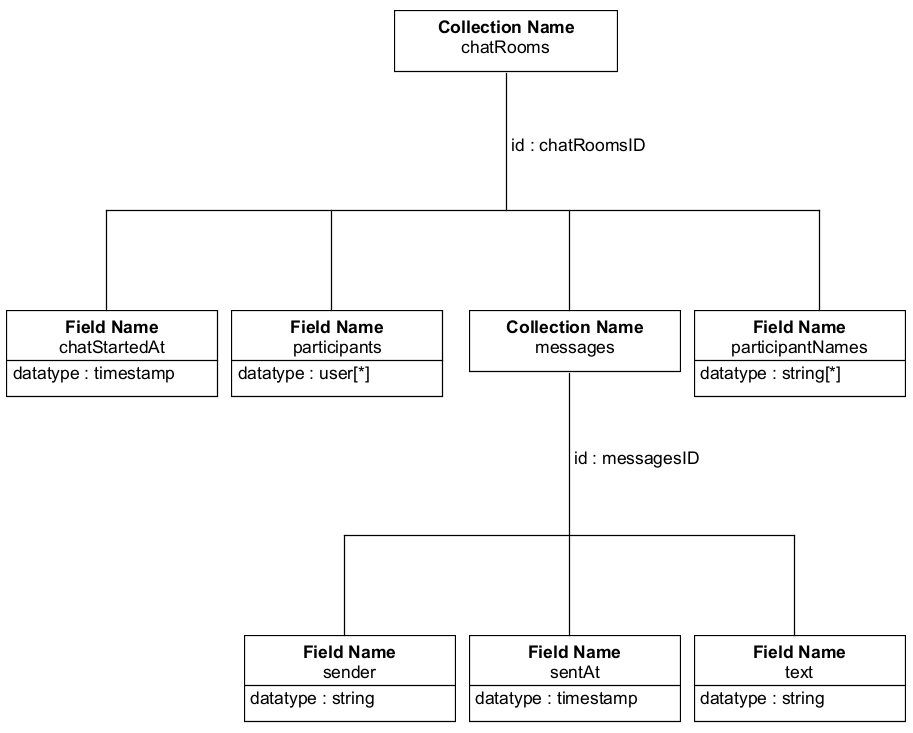
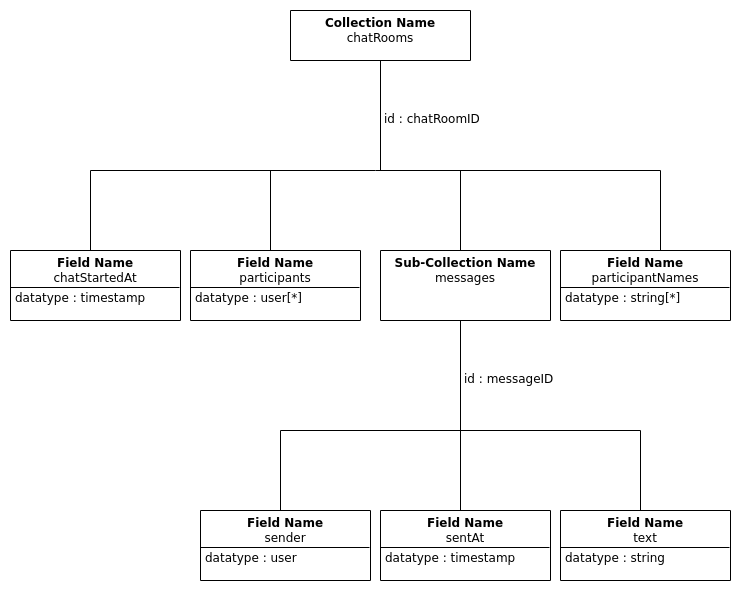
Added Baber's Part - Tree diagrams + more

Changed region(s): [[0.0, 0.2746, 0.9946, 1.0], [0.4041, 0.0, 0.6527, 0.122], [0.4973, 0.1831, 0.7149, 0.2136]]

diff --git a/ApertureStage3Report.md b/ApertureStage3Report.md
@@ -211,7 +211,7 @@ The web application will be hosted using a cloud platform application called Her
   - react-scripts
   - swiper
   - web-vitals
-- Google Firestore 
+- Google Firestore
 - Firebase Authentication
 - Firebase Storage
 - Node Package Manager (NPM)
@@ -260,7 +260,7 @@ Aperture was developed using ReactJS in conjuncture with Google Firestore's fire
 **MVC was chosen due to the following reasons.** (John Prabhu, 2019)
 
 - Since it divides the application into 3 parts, different members would be able to work on code related to different parts simultaneously thus making the overall development process faster.
-- Our application would have many asynchronous calls related to getting, setting and updating collections in the firebase DB. MVC supports asynchronous techniques.
+- Our application would have many asynchronous calls related to getting, setting and updating collections in the Firestore DB. MVC supports asynchronous techniques.
 - It demarcates Model View and Controller parts of the system well such that modifying one part would not necessarily change other parts. This is convenient as our development plan using scrum would mean that systems would frequently be changed and improved in later iterations.
 
 
@@ -313,7 +313,7 @@ Above figure represents the workings of React Redux which is a state management 
     </figcaption>
 </figure>
 
-Above figure shows how Redux interacts with react components and the Firebase database. React redux wraps around the parent and child components of react and allows state changes among child components and send queries and receive responses from firebase through React Redux.
+Above figure shows how Redux interacts with react components and the Firestore database. React redux wraps around the parent and child components of react and allows state changes among child components and send queries and receive responses from firebase through React Redux.
 
 
 
@@ -369,7 +369,13 @@ Overall firebase provides us with great functional tools making the entire backe
 
 ###### 1.6.2. Firebase Authentication System
 
-As explained above firebase is a very feature rich database tool, but it also has its own upsides and downsides to it. Firebase provides an authentication feature making it easier for us to know the identity of a user and allow them to access the app securely with the user data being stored securely over the cloud. The authentication system provides us with a secure system while supporting email and password accounts, phone auth, and Google, etc. integrations. The diagram below gives an in-depth look on how firebase handles authentication.
+As explained above firebase is a very feature rich database tool, but it also has its own upsides and downsides to it. Firebase provides an authentication feature making it easier for us to know the identity of a user and allow them to access the app securely with the user data being stored securely over the cloud. 
+
+The Authentication system which boasts a highly secure system that improves the user experience while they sign-up and sign-in:
+
+- It allows sign-in using email & password, phone authentication, Google, Facebook, Twitter, GitHub, and much more.
+- It is also easy to implement with no more than 10 lines of code to build it.
+- and Firebase Authentication is super secure as it has been developed by none other than Google’s sign-in team.
 
 <figure>
     <center>
@@ -382,22 +388,44 @@ As explained above firebase is a very feature rich database tool, but it also ha
         Firebase Authentication System
     </figcaption>
 </figure>
+The above diagram gives an in-depth look on how firebase handles authentication.
+
 
 
 
 ###### 1.6.3 Firebase Security Rules
 
-Even with all the upsides in functionality firebase is a very vulnerable software developing platform as it provides no prior security features to use. 
+The one major flaw of firebase was the security which also went against the GDPR Data privacy regulations. This was countered by adding Security rules that only allow authenticated users to use our app, 
 
-Firebase security rules helps in enforcing security and validate all requests made to the app. These rules work in conjunction with the real-time database checking every request being put if the request is by an authenticated user are not and/or is the user violating the constraints/limitations put into place, if there are any requests found to violate the security rules, they are either blocked or deleted. 
+The rules work by checking across our FirestoreDB to ensure that the user signing into our app are authenticated by our system, and by checking for any user who is trying to breach our app whom if found shall be blocked from accessing our DB.
 
-<span style="color:blue">*HASSAN ADD FIREBASE RULES...*</span>
+The Firestore rules work by cross referencing each user’s unique authentication id with their name and our database to check that each user trying to access the specific collection is an actual user of our app.
+
+Firebase security rules help in enforcing security and validating all requests made to the app. These rules work in conjunction with the real-time database by checking and ensuring that every request being is by an authenticated user who is not violating the constraints/limitations placed. If any requests were found to violate the security rules, they are either blocked or deleted. 
 
 
 
-###### 1.6.4 Firebase Database Structure
+###### 1.6.4 Firestore Database Structure
 
-The firebase database consists of collections which have documents and can have further sub-collections within to data. The following are collection tree diagrams to show each collection and its contents.
+The Firestore database consists of collections which have documents and can have further sub-collections within to data. The following are collection tree diagrams to show each collection and its contents.
+
+
+
+<figure>
+    <center>
+        <img 
+             src="./reportImages/FirebaseDbStructureUsers.png" 
+             alt="Users Collection" 
+             style="width:98%">
+    </center>
+    <figcaption style="text-align:center;">
+        Firestore DB Collection - users
+    </figcaption>
+</figure>
+
+The above tree diagram depicts the **users** collection which also has another sub-collection within, which contains the notifications of the user.
+
+
 
 <figure>
     <center>
@@ -411,7 +439,7 @@ The firebase database consists of collections which have documents and can have 
     </figcaption>
 </figure>
 
-The above tree diagram shows the fields of the channels collection stored in firebase when a user creates a new channel on their profile.
+The above tree diagram shows the fields of the **channels** collection stored in firebase with fields corresponding to attributes of a channel.
 
 
 
@@ -423,11 +451,12 @@ The above tree diagram shows the fields of the channels collection stored in fir
              style="width:60%">
     </center>
     <figcaption style="text-align:center;">
-        ChatRooms Collection
+        Firestore DB Collection - chatRooms
     </figcaption>
 </figure>
 
-The above tree diagram depicts the chat collection stored in firebase which also has another sub-collection within, which contains the messages of the user.
+
+The above tree diagram depicts the **chatRooms** collection stored in firebase which also has another sub-collection within, which contains the messages of the user.
 
 
 
@@ -439,11 +468,12 @@ The above tree diagram depicts the chat collection stored in firebase which also
              style="width:60%">
     </center>
     <figcaption style="text-align:center;">
-        Collections Collection
+        Firestore DB Collection - collections
     </figcaption>
 </figure>
 
-The above tree diagram represents the fields stored for each collection of photos a user creates in their profile.
+
+The above tree diagram represents the **collections** collection with fields storing attributes of a collection.
 
 
 
@@ -455,51 +485,160 @@ The above tree diagram represents the fields stored for each collection of photo
              style="width:70%">
     </center>
     <figcaption style="text-align:center;">
-        Portfolios Collection
+        Firestore DB Collection - portfolios
     </figcaption>
 </figure>
 
-The above tree diagram represents the fields stored in firebase when a user creates their portfolio.
+
+The above tree diagram represents the **portfolios** collection stored in firebase which contain a user's portfolio details.
 
 
 
 <figure>
     <center>
         <img 
-             src="./reportImages/FirebaseDbStructureUsers.jpeg" 
-             alt="Users Collection" 
+             src="./reportImages/FirebaseDbStructureSeasons.png" 
+             alt="Users Seasons" 
+             style="width:70%">
+    </center>
+    <figcaption style="text-align:center;">
+        Firestore DB Collection - seasons
+    </figcaption>
+</figure>
+
+The above tree diagram shows the **seasons** collection stored in firebase where all data regarding a season is stored.
+
+
+
+<figure>
+    <center>
+        <img 
+             src="./reportImages/FirebaseDbStructureChallenges.png" 
+             alt="Challenges" 
              style="width:98%">
     </center>
     <figcaption style="text-align:center;">
-        Users Collection
+        Firestore DB Collection - challenges
     </figcaption>
 </figure>
 
-The above tree diagram depicts the Users collection which also has another sub-collection within, which contains the notifications of the user.
+The above tree diagram shows the **challenges** collection stored in firebase.
 
 
 
 <figure>
     <center>
         <img 
-             src="./reportImages/FirebaseDbStructureSeasons.jpg" 
-             alt="Users Seasons" 
-             style="width:80%">
+             src="./reportImages/FirebaseDbStructureChallengePosts.png" 
+             alt="Challenge Posts" 
+             style="width:98%">
     </center>
     <figcaption style="text-align:center;">
-        Users Seasons
+        Firestore DB Collection - challengePosts
     </figcaption>
 </figure>
 
-The above tree diagram shows the seasons collection stored in firebase where all data regarding a season is stored.
+The above tree diagram shows the **challengePosts** collection stored in firebase where attributes of a challenge post are stored.
 
 
 
-<span style="color:blue">*ADD REMAINING COLLECTIONS...*</span>
+<figure>
+    <center>
+        <img 
+             src="./reportImages/FirebaseDbStructureForumPosts.png" 
+             alt="Forum Posts" 
+             style="width:98%">
+    </center>
+    <figcaption style="text-align:center;">
+        Firestore DB Collection - forumPosts
+    </figcaption>
+</figure>
+
+The above tree diagram shows the **forumPosts** collection stored in firebase where all attributes of a forum post are stored.
 
 
 
-In total 13 collections are currently in our firebase database which makes it possible to achieve all functionalities of the application possible and provides a quick, smooth response during queries to/responses from from the database.
+<figure>
+    <center>
+        <img 
+             src="./reportImages/FirebaseDbStructureGlobalLeaderBoard.png" 
+             alt="Global LeaderBoards" 
+             style="width:50%">
+    </center>
+    <figcaption style="text-align:center;">
+        Firestore DB Collection - globalLeaderBoards 
+    </figcaption>
+</figure>
+
+The above tree diagram shows the **globalLeaderBoards** collection stored in firebase.
+
+
+
+<figure>
+    <center>
+        <img 
+             src="./reportImages/FirebaseDbStructurePostImages.png" 
+             alt="Post Images" 
+             style="width:70%">
+    </center>
+    <figcaption style="text-align:center;">
+        Firestore DB Collection - postImages
+    </figcaption>
+</figure>
+
+The above tree diagram shows the **postImages** collection stored in firebase where all attributes of an image within a post are stored.
+
+
+
+<figure>
+    <center>
+        <img 
+             src="./reportImages/FirebaseDbStructurePostReports.png" 
+             alt="Post Reports" 
+             style="width:60%">
+    </center>
+    <figcaption style="text-align:center;">
+        Firestore DB Collection - postReports
+    </figcaption>
+</figure>
+
+The above tree diagram shows the **postReports** collection stored in firebase where all data regarding reported posts are stored.
+
+
+
+<figure>
+    <center>
+        <img 
+             src="./reportImages/FirebaseDbStructureBugReports.png" 
+             alt="Bug Reports" 
+             style="width:70%">
+    </center>
+    <figcaption style="text-align:center;">
+        Firestore DB Collection - bugReports
+    </figcaption>
+</figure>
+
+The above tree diagram shows the **bugReports** collection stored in firebase where all data regarding a reported bugs are stored.
+
+
+
+<figure>
+    <center>
+        <img 
+             src="./reportImages/FirebaseDbStructurePosts.png" 
+             alt="Posts" 
+             style="width:98%">
+    </center>
+    <figcaption style="text-align:center;">
+        Firestore DB Collection - posts
+    </figcaption>
+</figure>
+
+The above tree diagram shows the **posts** collection stored in firebase where all attributes of a post are stored.
+
+
+
+In total 13 collections are currently in our Firestore database which makes it possible to achieve all functionalities of the application possible and provides a quick, smooth response during queries to/responses from from the database.
 
 
 
@@ -550,7 +689,7 @@ Above use case diagram shows all the functionalities of the user account system 
     </figcaption>
 </figure>
 
-Above sequence diagram shows the 2 alternate ways on how a user can create an account on Aperture, they can either enter their details, or sign up with a google account. Then our firebase database will create a new entry for the new user.
+Above sequence diagram shows the 2 alternate ways on how a user can create an account on Aperture, they can either enter their details, or sign up with a google account. Then our Firestore database will create a new entry for the new user.
 
 
 <figure>
@@ -1501,7 +1640,7 @@ During the development of the application’s functionality throughout stages 2 
 
 The testing method adopted is of **Continuous Integration & Continuous Delivery** (CI/CD) as per which, features are released by periodically integrating code changes into the main software branch, testing them as early and as frequently as possible, and incorporating feedback/fixing bugs and relaunching them. This continuous cycle of automating the product delivery pipeline ensures that features are made available to users quickly, efficiently, and sustainably. CI/CD makes for an un-compromising practice in the Agile software development and project management lifecycle.
 
-Testing was also done across a variety of web browsers, in particular Google Chrome, Edge, Brave and Safari. The app was tested thoroughly at every point of development, for example login and sign-up functionality were very important features of the User Account System which had to be tested for accuracy and technical correctness concerning the new user entries made along with user details verification and user account verification. The firebase database was frequently checked after every new user entry was made to ensure that the data stored was accurate and each user was correctly verified before logging in, and they completed their one-time email verification before they could login for the first time. 
+Testing was also done across a variety of web browsers, in particular Google Chrome, Edge, Brave and Safari. The app was tested thoroughly at every point of development, for example login and sign-up functionality were very important features of the User Account System which had to be tested for accuracy and technical correctness concerning the new user entries made along with user details verification and user account verification. The Firestore database was frequently checked after every new user entry was made to ensure that the data stored was accurate and each user was correctly verified before logging in, and they completed their one-time email verification before they could login for the first time. 
 
 Usability tests conducted via questionnaires ensured that different users tested our app and gave feedback. These opinions and feedback from stage was used to determine possible improvements and identify issues, that would be corrected for the final version.
 
@@ -1631,11 +1770,11 @@ Other details of these packages such as costing have been already given to clien
 
 
 
-##### 3.6. <span style="color:red">User Guide</span>
+##### 3.6. User Guide
 
 <span style="color:magenta">*Short user guide.*</span>
 
-<span style="color:blue">*MORE ...*</span>
+A playlist of videos that shall guide users in interfacing with the app can be found at https://www.youtube.com/watch?v=C_h5see_bmc&list=PLs9qIZvqLy07Z7S6l1bo7AAasd52wBHyV&index=1.
 
 
 
